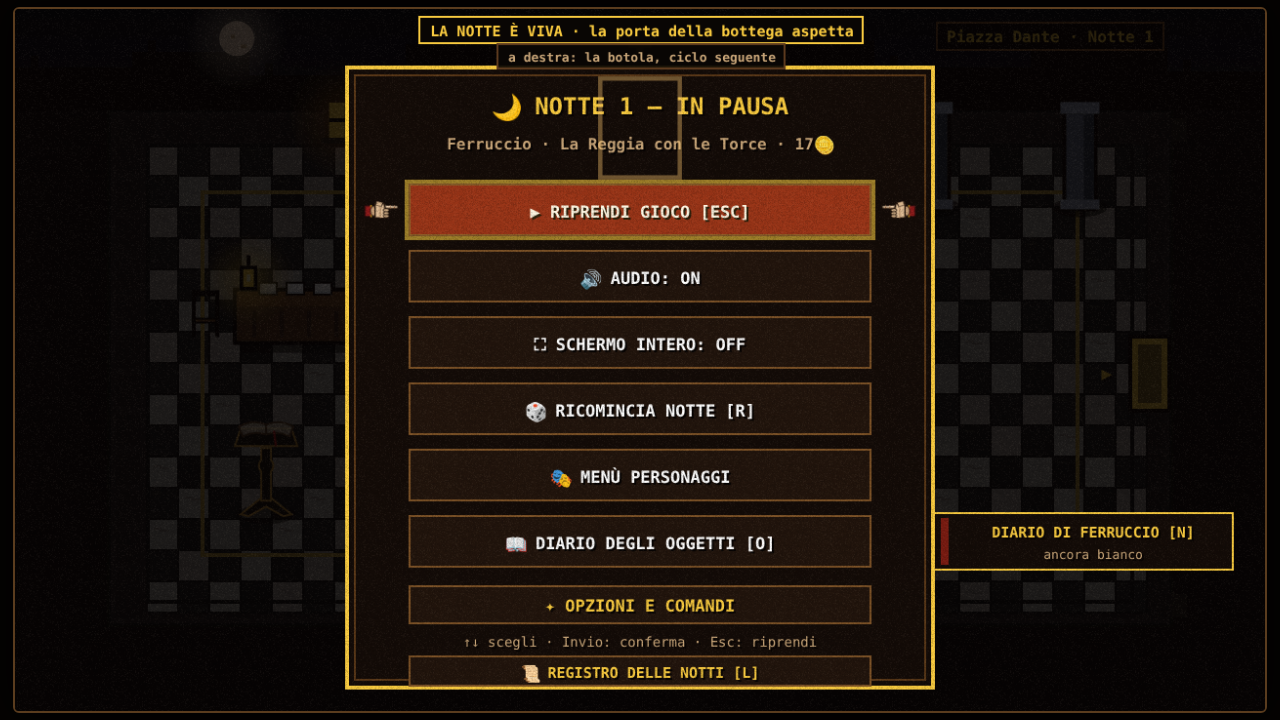
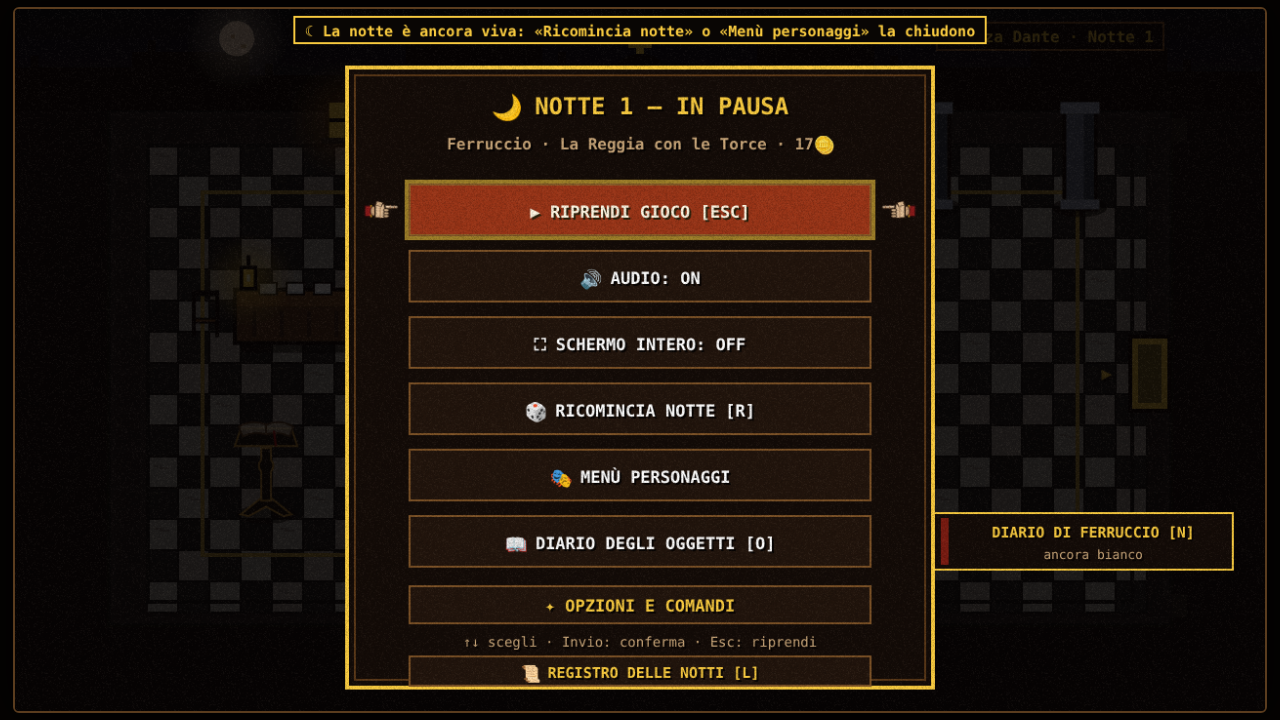
fix(teatro): h4 riga «notte viva» nel menu di pausa della piazza, rastrelliera più leggibile
Claude-Session: https://claude.ai/code/session_01F5x6kDAQ4qaiYDiFx9jQb5

Changed region(s): [[0.2188, 0.0, 0.7812, 0.1222], [0.4688, 0.2139, 0.5312, 0.275]]

diff --git a/gioco/teatro/h4-ritorno-piazza.js b/gioco/teatro/h4-ritorno-piazza.js
@@ -21,7 +21,7 @@
  *  Senza notte viva (una sera nuova, a mani nude) lo scontro resta quello di prima: d1 fa nuovaRun.
  *
  * Agganci: d1-burattinaio.js (opz.notteViva / opz.vita / opz.ritmo / opz.ferri, righe segnate «(h4)»).
- * Avvolge: t4Gancio, interagisciStanza, disegnaStanzaPixelArt, disegnaMenuPausa, ricalcolaStatistiche,
+ * Avvolge: t4Gancio, interagisciStanza, disegnaStanzaPixelArt, ricalcolaStatistiche,
  * interni.nuovaRun (l'uscita della piazza di T4), interni.scontroSopraLaRibalta (lo chiama b8).
  * Sonda QA: window.__teatro.interni.ritornoH4.
  */
@@ -368,7 +368,9 @@ t4Gancio = function t4GancioH4(nome, ...args) {
     if (nome === 'bossSconfitto') dopoLucianaH4(args[0]);
     else if (nome === 'logica') logicaH4();
     else if (nome === 'sopra' && statoRun.fase === 'hub') {
-      if (notteVivaH4()) disegnaPiazzaVivaH4();
+      if (notteVivaH4() && !statoRun.pausa) disegnaPiazzaVivaH4();
+      // menu di pausa (b3 lo disegna sopra il frame): una riga in cima dice che la notte è ancora viva
+      if (notteVivaH4() && statoRun.pausa && !statoRun.diarioD) drawPillLabel(TESTI_H4.pausa, W / 2, 10, 520, { size: 7.5, color: '#f9cb40', border: '#f9cb40' });
       if (h4.rast) disegnaRastrellieraH4();
     }
   } catch (err) { console.error('[h4]', nome, err); }
@@ -411,13 +413,6 @@ const disegnaStanzaBaseH4 = disegnaStanzaPixelArt;
 disegnaStanzaPixelArt = function (t, st, ...resto) {
   const r = disegnaStanzaBaseH4.call(this, t, st, ...resto);
   try { const s = st || statoRun.stanzaCorrente; if (s && s.ritornoH4 && statoRun.fase === 'in_gioco') disegnaUscitaH4(); } catch (err) { console.error('[h4] uscita (disegno)', err); }
-  return r;
-};
-
-const disegnaMenuPausaBaseH4 = disegnaMenuPausa;
-disegnaMenuPausa = function (...args) {
-  const r = disegnaMenuPausaBaseH4.apply(this, args);
-  try { if (statoRun.fase === 'hub' && notteVivaH4() && !statoRun.diarioD) drawTextFit(TESTI_H4.pausa, W / 2, 20, 600, { size: 8, color: '#f9cb40', weight: 'bold' }); } catch (err) { console.error('[h4] pausa', err); }
   return r;
 };
 

diff --git a/gioco/teatro/LEGGIMI.md b/gioco/teatro/LEGGIMI.md
@@ -45,7 +45,7 @@ Le dichiarazioni di primo livello (`const`/`let`/`function`) stanno nello scope 
 | `d6-acquedotto.js` | (d6) L'ACQUEDOTTO CAROLINO, percorso alternativo al piano 2. LA SCELTA: battuto il boss del piano 1 del ciclo, a sinistra della botola compare la GRATA DEL CONDOTTO col cartiglio del luogo; è chiusa da un lucchetto (1 chiave con [E] o click) ed è già aperta se il boss è caduto senza far perdere più di una Maschera; chi scende di lì ha `statoRun.percorsoD6[piano] = 'acquedotto'` e fa il piano 2 all'Acquedotto, poi il piano 3 è San Leucio di sempre. IL QUARTIERE `QUARTIERE_D6` (stessi campi di `QUARTIERI_PIANI`): `getQuartierePiano`, cartellone, pavimento di tufo e scenografia dipinta su una tela propria (fondale coi Ponti della Valle, quinte coi tre ordini di archi), fiaccole e drappi. LE REGOLE DEL LUOGO: canali in `stanza.canaliD6` (`{x, y, w, h, dx, dy}`: dentro il passo si accorcia e la corrente spinge giocatore, nemici a terra e raccoglibili; chi vola la ignora) e la raffica di vento (`calma → annuncio → raffica`: fiaccole e drappi si piegano, poi i proiettili di tutti piegano di traverso; mai a stanza pulita né dal boss). I NEMICI `NEMICI_D6` prendono il posto di quelli della Villa (`SOSTITUZIONI_D6`: lucciola → Rondone di Latta, statua → Lavandaia di Tufo coi panni bagnati che inzuppano, predone → Fontaniere che gira la saracinesca e inverte la corrente), così gruppi e disposizioni di b7 restano validi. IL BOSS Il Guardiano delle Acque nello schema di b6 (`SCHEDA_D6`, `BOSS_D6`, `STATI_D6`: getto, piena che allaga l'arena in `stanza.acquaD6`, immersione, secca; 2 fasi; segno in `SEGNI_A6`). IL PERCHÉ: oggetto forte garantito («Dono dell'Acquedotto»), `percorso: 'acquedotto'` nella voce del Registro di a7 (riga nella pergamena) e riga nel Diario di b8; tema `acquedotto` aggiunto a `MUSICA.temi` (a8) e scelto finché si è nel luogo. Tabelle `ACQUEDOTTO_D6`, `TESTI_D6`, `TINTE_D6`, `MUSICA_D6`. UNICO AGGANCIO di base: `40-combattimento.js` → `iaNemicoD6` (IA dei nemici comuni); il resto avvolge `getQuartierePiano`, `getFloorTileCanvas`, `getRaccontoAtto`, `disegnaAtmosferaQuartiere`, `nuovaRun`, `avviaPiano`, `generaMappaPiano`, `popolaStanza`, `entraInStanza`, `verificaStanzaPulita`, `interagisciStanza`, `passoLogico`, `massaNemico`, `disegnaNemicoPittorico`, `disegnaBossPittorico`, `disegnaStanzaPixelArt`, `disegnaHUDPixelArt`, `disegnaPergamenaA7`, `componiPaginaB8`. Caricato dopo `c2-tocco.js`. Sonda `interni.acquedottoD6` (`attivo`, `segna`, `prendi`, `grata`, `vento`, `forzaVento`, `canali`, `corrente`, `stato`). QA: `tools/qa-teatro-acquedotto.js` (96 controlli) |
 | `e6-assistenza.js` | (e6) ASSISTENZA. **Riprendi la notte**: a ogni inizio di piano un'istantanea della dotazione (localStorage `ferruccio.teatro.ripresa.<slot>`, versione 1; oggetti per id+mod riapplicati con `ricalcolaStatistiche`, campi `statoRun.percorso*` copiati in modo generico); in Piazza Dante un cartello «Riprendi la notte (Piano N, personaggio)» / «Nuova notte» (tastiera, pad, tocco: `comandiB3.menuAperti`); riprese contate nel Registro (`riprese`); cancellata a morte, vittoria, ritorno volontario. **Mira assistita** (Opzioni: Spenta/Leggera/Piena, `OPZIONI.miraAssistita`): avvolge `eseguiAttacco4Direzioni`, `sparaProiettiliDirezione`, `colpoMaglioD2`. **Conto della notte**: sostituisce il disegno di `disegnaPergamenaA7` (stessi dati e chiusura di a7), consigli per causa in `CONSIGLI_E6`. Tabelle `ASSISTENZA_E6`, `TESTI_E6`; interni `assistenzaE6`, `miraE6`. QA `tools/qa-teatro-assistenza.js` |
 | `e4-prestazioni.js` | (e4) QUALITÀ AUTOMATICA sul telefono: se la media mobile del fotogramma resta sopra `QUALITA_E4.bersaglioMs` per `attesaSpegniMs`, spegne per la sessione grana → ombre lunghe → pubblico → vignetta (solo quelli accesi; mai quelli cambiati a mano), e li riaccende con margine (attesa che raddoppia a ogni ricaduta). `salvaOpzioni` salva sempre i valori del giocatore. Riga «Qualità automatica» (`OPZIONI.qualitaAuto`) nelle Opzioni dopo «Ombre lunghe». Attiva solo col tocco e non sotto webdriver (`interni.qualitaAutoE4.forza(true)` per le prove). Avvolge `disegnaFrame`, `salvaOpzioni`, `impostaOpzioneB3`, `righeB3`. Caricato dopo `d4-stanze-teatro.js`. Profilo: `tools/profilo-teatro.js`, rapporto `production/prestazioni-teatro.md`. QA: `tools/qa-teatro-prestazioni.js` |
-| `h4-ritorno-piazza.js` | (h4) RITORNO IN PIAZZA. Caduta Donna Luciana con la porta della bottega pronta (b8: tre sigilli + finale vero, o porta aperta) il cordone diventa «Torna in piazza»: piazza con la notte VIVA (stessa run, Maschere piene, nessuna pergamena), Tonino e la porta che pulsa; a ogni ciclo. Dalla Fucina «Sali» apre la rastrelliera dei ferri (ognuno: passo −10% nello scontro) e d1 parte senza `nuovaRun` con la dotazione (agganci `opz.notteViva/vita/ritmo/ferri` in d1), Burattinaio scalato su forza (dmg×colpi/s) e ciclo (`RITORNO_H4.scala`). Porta di destra = ciclo seguente; vittoria chiude la notte col conto (a7). Avvolge `t4Gancio`, `interagisciStanza`, `disegnaStanzaPixelArt`, `disegnaMenuPausa`, `ricalcolaStatistiche`, `interni.nuovaRun`, `interni.scontroSopraLaRibalta`. Tabelle `RITORNO_H4`, `TESTI_H4`; interni `ritornoH4`. QA `tools/qa-teatro-ritorno-piazza.js` |
+| `h4-ritorno-piazza.js` | (h4) RITORNO IN PIAZZA. Caduta Donna Luciana con la porta della bottega pronta (b8: tre sigilli + finale vero, o porta aperta) il cordone diventa «Torna in piazza»: piazza con la notte VIVA (stessa run, Maschere piene, nessuna pergamena), Tonino e la porta che pulsa; a ogni ciclo. Dalla Fucina «Sali» apre la rastrelliera dei ferri (ognuno: passo −10% nello scontro) e d1 parte senza `nuovaRun` con la dotazione (agganci `opz.notteViva/vita/ritmo/ferri` in d1), Burattinaio scalato su forza (dmg×colpi/s) e ciclo (`RITORNO_H4.scala`). Porta di destra = ciclo seguente; vittoria chiude la notte col conto (a7). Avvolge `t4Gancio`, `interagisciStanza`, `disegnaStanzaPixelArt`, `ricalcolaStatistiche`, `interni.nuovaRun`, `interni.scontroSopraLaRibalta`. Tabelle `RITORNO_H4`, `TESTI_H4`; interni `ritornoH4`. QA `tools/qa-teatro-ritorno-piazza.js` |
 | `t2-sprite.js`, `sim-economia.js` | non collegati / strumenti |
 
 ## Regole per aggiungere codice
